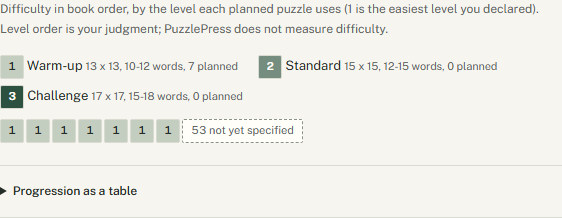
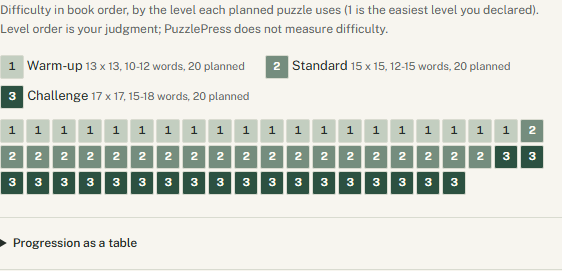
test(studio): production book acceptance in the browser
A temporary copy of the 60-puzzle book is opened, generated (60 puzzles,
clean), inspected at its hardest puzzle, reviewed in Quality (no findings,
screening shown), composed (95 plan pages), built and proofed in Print
(valid and ready, 95 thumbnails, puzzle 1 on page 5, solutions from page
65), shown waiting for a photograph in Cover, blocked on the author's
decisions in Publishing with export disabled, and shown in Planning as
needs research within the 100-puzzle cap. axe passes on every view; step
timings are printed. The planning spec now describes the fully specified
plan, and the captures that show it are refreshed.

diff --git a/studio/e2e/production.spec.ts b/studio/e2e/production.spec.ts
@@ -1,0 +1,162 @@
+import { test, expect, type Page } from '@playwright/test';
+import AxeBuilder from '@axe-core/playwright';
+import { readFileSync } from 'node:fs';
+import type { Generation } from '../src/types';
+
+// The 60-puzzle automotive production book, served from a temporary copy
+// (automotive-production). Builds write only inside that temporary directory.
+const key = 'automotive-production';
+const shot = (name: string) => `../docs/images/studio/${name}.png`;
+const originals = ['book.yaml', 'planning.yaml'].map((name) => ({
+  name,
+  bytes: readFileSync(`../books/automotive/${name}`),
+}));
+test.afterAll(() => {
+  for (const { name, bytes } of originals)
+    expect(readFileSync(`../books/automotive/${name}`)).toEqual(bytes);
+});
+
+async function noAxeViolations(page: Page) {
+  expect((await new AxeBuilder({ page }).analyze()).violations).toEqual([]);
+}
+
+async function imagesLoaded(page: Page, selector: string) {
+  // Rasters come from PDFium one at a time; a full suite run queues them.
+  await expect
+    .poll(
+      () =>
+        page
+          .locator(selector)
+          .evaluateAll((images) =>
+            images.every(
+              (i) => (i as HTMLImageElement).complete && (i as HTMLImageElement).naturalWidth > 0,
+            ),
+          ),
+      { timeout: 30_000 },
+    )
+    .toBe(true);
+}
+
+/** Wall time of one step, printed for the interval's performance record. */
+async function timed<T>(label: string, step: () => Promise<T>): Promise<T> {
+  const start = Date.now();
+  const value = await step();
+  console.log(`studio timing: ${label}: ${Date.now() - start} ms`);
+  return value;
+}
+
+test('open, review, compose, print and check the 60-puzzle production book', async ({ page }) => {
+  test.setTimeout(180_000);
+  const errors: string[] = [];
+  page.on('pageerror', (error) => errors.push(error.message));
+  page.on('console', (message) => {
+    if (message.type() === 'error') errors.push(message.text());
+  });
+  await page.setViewportSize({ width: 1440, height: 1000 });
+
+  // Opening the project lists every definition in source order.
+  await timed('open project overview', async () => {
+    await page.goto(`/books/${key}`);
+    await expect(page.getByText('60 in source order')).toBeVisible();
+  });
+  await page.evaluate(() => document.fonts.ready);
+  await noAxeViolations(page);
+
+  // Generation of all 60 puzzles, then the hardest puzzle in the inspector.
+  const generated = page.waitForResponse((r) => r.url().endsWith('/generation'));
+  const generation = await timed('generate and review 60 puzzles', async () => {
+    await page.getByRole('link', { name: 'Generate & review puzzles' }).click();
+    const response = await generated;
+    expect(response.status()).toBe(200);
+    return (await response.json()) as Generation;
+  });
+  expect(generation.report.success).toBe(true);
+  expect(generation.report.clean).toBe(true);
+  expect(generation.report.puzzles).toHaveLength(60);
+  const last = generation.report.puzzles.find((p) => p.id === 'engines-10')!;
+  await page.getByRole('link', { name: last.title, exact: true }).click();
+  const grid = page.getByRole('table');
+  await expect(grid).toBeVisible();
+  expect((await grid.getByRole('cell').allTextContents()).join('')).toBe(
+    last.puzzle!.grid.join(''),
+  );
+  await expect(page.getByText('Independently verified')).toBeVisible();
+  await noAxeViolations(page);
+  await page.screenshot({ path: shot('production-puzzle'), fullPage: true });
+
+  // Quality: the configured checks, including screening, find nothing.
+  await timed('quality view', async () => {
+    await page.goto(`/books/${key}/quality`);
+    await expect(page.getByText('The configured checks found nothing to flag.')).toBeVisible();
+  });
+  await expect(page.getByText(/^Screening policy: /)).toBeVisible();
+
+  // Composition: the verified plan of 95 logical pages.
+  await timed('composition plan', async () => {
+    await page.goto(`/books/${key}/book`);
+    await expect(page.getByText('Plan independently verified')).toBeVisible({ timeout: 30_000 });
+  });
+  await expect(page.locator('.plan-table tbody tr:not(.plan-section)')).toHaveCount(95);
+  await noAxeViolations(page);
+
+  // Print: build the real interior, preflight it and proof pages.
+  await page.goto(`/books/${key}/print`);
+  await expect(page.getByRole('heading', { name: 'No interior has been built.' })).toBeVisible();
+  const built = page.waitForResponse((r) => r.url().endsWith('/interior/build'));
+  await timed('build interior and preflight', async () => {
+    await page.getByRole('button', { name: 'Build interior' }).click();
+    expect((await built).status()).toBe(200);
+    await expect(page.getByText('Interior built and preflight complete.')).toBeVisible();
+  });
+  const verdict = page.getByLabel('Preflight status');
+  await expect(verdict.getByText('Valid', { exact: true })).toBeVisible();
+  await expect(verdict.getByText('Ready', { exact: true })).toBeVisible();
+  await expect(page.getByRole('navigation', { name: 'Pages' }).locator('img')).toHaveCount(95);
+  await page.locator('.print-canvas').focus();
+  for (let i = 0; i < 4; i++) await page.keyboard.press('ArrowRight');
+  await expect(page.locator('.print-current')).toHaveText(
+    'Page 5 · Recto (right) · Puzzle · number 1 printed of 95',
+  );
+  const jump = page.getByLabel('Page', { exact: true });
+  await jump.fill('65');
+  await jump.press('Enter');
+  await expect(page.locator('.print-current')).toContainText('Page 65 · Recto (right) · Solutions');
+  await imagesLoaded(page, '.sheet img');
+  await noAxeViolations(page);
+  await page.screenshot({ path: shot('production-print'), fullPage: true });
+
+  // Cover: no photograph has been supplied, so the cover waits for one.
+  await page.goto(`/books/${key}/cover`);
+  await expect(
+    page.getByRole('heading', { name: 'Start a cover from your photograph' }),
+  ).toBeVisible();
+  await expect(page.getByText('No photographs in this project yet.')).toBeVisible();
+  await noAxeViolations(page);
+
+  // Publishing: the interior is current; everything only the author can decide blocks.
+  await timed('publishing readiness', async () => {
+    await page.goto(`/books/${key}/publishing`);
+    await expect(page.getByRole('heading', { name: 'Readiness' })).toBeVisible({
+      timeout: 60_000,
+    });
+  });
+  const readiness = page.locator('#publishing-readiness');
+  await expect(readiness.getByText('Interior current and KDP ready.')).toBeVisible();
+  await expect(readiness.getByText('No cover is designed. Open Cover.')).toBeVisible();
+  await expect(readiness.getByText('AI content disclosure is not yet declared.')).toBeVisible();
+  await expect(readiness.getByText('Your confirmations are incomplete.')).toBeVisible();
+  await expect(readiness.getByRole('button', { name: 'Export package' })).toBeDisabled();
+  await noAxeViolations(page);
+  await page.screenshot({ path: shot('production-publishing'), fullPage: true });
+
+  // Planning: the plan is complete but not approved; comparables are still open.
+  await timed('planning view', async () => {
+    await page.goto(`/books/${key}/planning`);
+    await expect(page.getByText(/^Needs research: blocking questions/)).toBeVisible();
+  });
+  await expect(page.getByText(/Within the project cap of 100 puzzles/)).toBeVisible();
+  await expect(page.getByRole('button', { name: 'Approve this plan' })).toBeDisabled();
+  await noAxeViolations(page);
+
+  expect(errors).toEqual([]);
+});

diff --git a/studio/e2e/planning.spec.ts b/studio/e2e/planning.spec.ts
@@ -27,7 +27,7 @@ async function open(page: Page, key: string, section = '') {
 const readiness = (page: Page) => page.getByRole('complementary', { name: 'Readiness' });
 const nav = (page: Page) => page.getByRole('navigation', { name: 'Plan sections' });
 
-test('review the automotive demo plan by section, keyboard and width', async ({ page }) => {
+test('review the automotive plan by section, keyboard and width', async ({ page }) => {
   const errors: string[] = [];
   page.on('pageerror', (error) => errors.push(error.message));
   await page.setViewportSize({ width: 1440, height: 1000 });
@@ -69,7 +69,10 @@ test('review the automotive demo plan by section, keyboard and width', async ({ 
     .getByRole('link', { name: /^Difficulty/ })
     .click();
   await expect(page.getByRole('list', { name: 'Planned puzzles in book order' })).toBeVisible();
-  await expect(page.getByText('53 not yet specified').first()).toBeVisible();
+  // All 60 planned puzzles are specified, in gradual order.
+  const strip = page.getByRole('list', { name: 'Planned puzzles in book order' }).first();
+  await expect(strip.locator('.level-cell')).toHaveCount(60);
+  await expect(strip.getByText('Puzzle 60, Timing and Ignition: Challenge')).toBeAttached();
   await page
     .locator('.plan-figure')
     .first()
@@ -90,7 +93,7 @@ test('review the automotive demo plan by section, keyboard and width', async ({ 
   await expect(
     page.getByRole('heading', { name: /Editorial review \(never blocks\)/ }),
   ).toBeVisible();
-  await expect(page.getByText(/Pool engines has 31 usable words/)).toBeVisible();
+  await expect(page.getByText(/Pool engines has 133 usable words/)).toBeVisible();
   await noAxeViolations(page);
   await page.locator('.planning-section').screenshot({ path: shot('planning-coverage') });
 

diff --git a/studio/e2e/server.py b/studio/e2e/server.py
@@ -22,8 +22,17 @@ with tempfile.TemporaryDirectory(prefix="puzzlepress-browser-") as directory:
         target = books / key
         target.mkdir(parents=True)
         shutil.copyfile(ROOT / "books" / key / "book.yaml", target / "book.yaml")
-    # Planning: the automotive demo with its plan, and a synthetic plan ready for approval.
+    # Planning: the automotive plan, and a synthetic plan ready for approval.
     shutil.copytree(ROOT / "books" / "automotive", books / "automotive")
+    # The 60-puzzle production book, built only inside this temporary directory.
+    shutil.copytree(ROOT / "books" / "automotive", books / "automotive-production")
+    source = books / "automotive-production" / "book.yaml"
+    source.write_text(
+        source.read_text(encoding="utf-8").replace(
+            "../../build/automotive-word-search", "../../build/automotive-production"
+        ),
+        encoding="utf-8",
+    )
     target = books / "planning-ready"
     target.mkdir()
     (target / "book.yaml").write_text(
